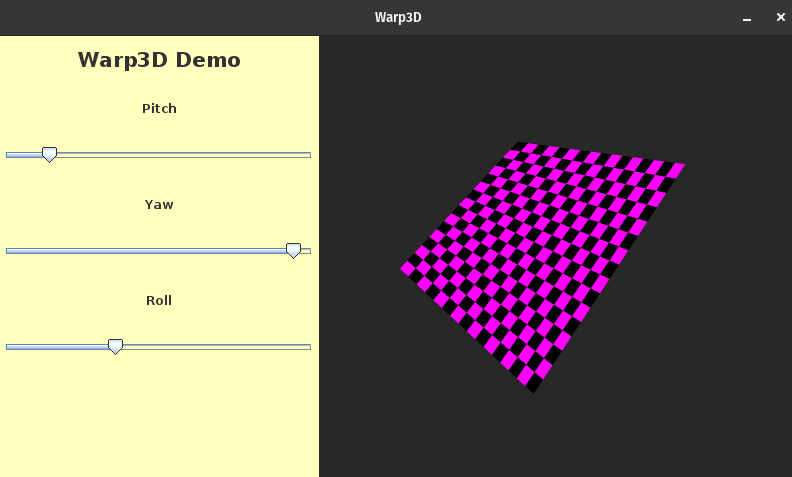
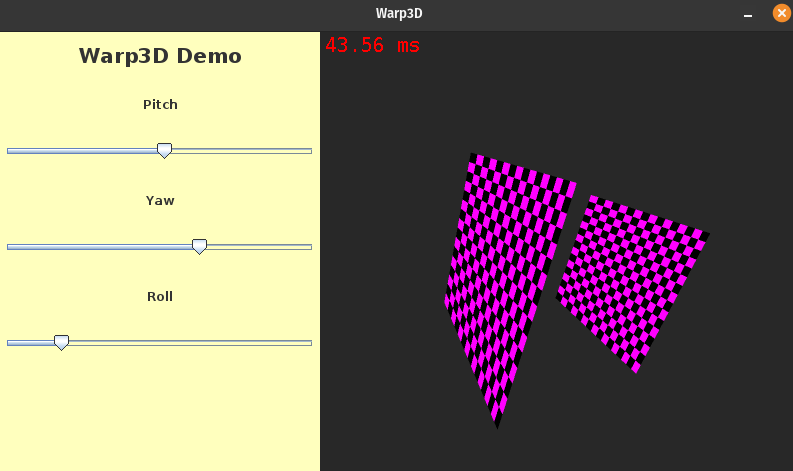
Add mode 4 rendering

diff --git a/src/test/kotlin/Main.kt b/src/test/kotlin/Main.kt
@@ -25,11 +25,13 @@ import java.awt.geom.AffineTransform
 import java.awt.image.AffineTransformOp
 import java.awt.image.BufferedImage
 import java.awt.image.BufferedImageOp
+import java.text.DecimalFormat
 import javax.swing.JFrame
 import javax.swing.JLabel
 import javax.swing.JPanel
 import javax.swing.JSlider
 import javax.swing.SwingConstants
+import kotlin.math.pow
 
 class RenderPanel(pitch: JSlider, yaw: JSlider, roll: JSlider): JPanel() {
 
@@ -37,16 +39,29 @@ class RenderPanel(pitch: JSlider, yaw: JSlider, roll: JSlider): JPanel() {
     private var rotation: Quaternion = Quaternion.IDENTITY
     private var position: Vector3D = Vector3D(0.0, 0.0, 3.0)
     private var camera: Camera = Camera(960)
-    private var quad: Quad3D = Quad3D(
-        Vector3D(-1.0, -1.0, -1.0),
-        Vector3D(1.0, -1.0, -1.0),
-        Vector3D(-1.0, 1.0, -1.0),
-        Vector3D(1.0, 1.0, -1.0),
-        color = Color.WHITE,
-        texture = createTexture()
-    )
+    private var quads: Array<Quad3D>
+    private var numToRender = 2
+    private var decimalFormat = DecimalFormat("0.##")
 
     init {
+        val tex = createTexture()
+        quads = arrayOf(
+            Quad3D(
+                Vector3D(-1.0, -1.0, -1.0),
+                Vector3D(1.0, -1.0, -1.0),
+                Vector3D(-1.0, 1.0, -1.0),
+                Vector3D(1.0, 1.0, -1.0),
+                texture = tex
+            ),
+            Quad3D(
+                Vector3D(1.0, -1.0, 1.0),
+                Vector3D(-1.0, -1.0, 1.0),
+                Vector3D(1.0, 1.0, 1.0),
+                Vector3D(-1.0, 1.0, 1.0),
+                texture = tex
+            )
+        )
+
         pitch.addChangeListener { updateRotation(pitch, yaw, roll) }
         yaw.addChangeListener { updateRotation(pitch, yaw, roll) }
         roll.addChangeListener { updateRotation(pitch, yaw, roll) }
@@ -79,11 +94,32 @@ class RenderPanel(pitch: JSlider, yaw: JSlider, roll: JSlider): JPanel() {
         g2.background = Color(40, 40, 40)
         g2.clearRect(0, 0, 960, 960)
         g2.dispose()
-        Warp3D.renderQuad(image, quad, camera, position, rotation)
+        val dict = HashMap<Quad3D, Double>()
+        for (quad in quads) {
+            val q = quad.rotate(rotation).translate(position)
+            val sum = q.topLeft.add(q.topRight).add(q.bottomLeft).add(q.bottomRight)
+            dict[q] = (sum.x / 4.0).pow(2.0) + (sum.y / 4.0).pow(2.0) + (sum.z / 4.0).pow(2.0)
+        }
+        val list = dict.keys.sortedByDescending { dict[it] }
+        val startTime = System.nanoTime()
+        var i = -1
+        for (q in list) {
+            i++
+            if (i >= numToRender) return
+            q.project(camera)?.render(image);
+        }
+        val elapsed = System.nanoTime() - startTime
+        val elapsedMillis = elapsed / 1.0e6
         if (g is Graphics2D) {
             g.drawImage(image, AffineTransformOp(AffineTransform.getScaleInstance(0.5, 0.5), AffineTransformOp.TYPE_BILINEAR), 0, 0)
         } else {
             g?.drawImage(image, 0, 0, 480, 480, this)
+        }
+        val formatted = decimalFormat.format(elapsedMillis)
+        g?.let {
+            it.font = Font(Font.MONOSPACED, Font.PLAIN, 20)
+            it.color = Color.RED
+            it.drawString("$formatted ms", 5, 20)
         }
     }
 

diff --git a/src/main/kotlin/codes/wasabi/warp3d/util/UVSampler.kt b/src/main/kotlin/codes/wasabi/warp3d/util/UVSampler.kt
@@ -56,7 +56,22 @@ class UVSampler(topLeft: Vector2D, topRight: Vector2D, bottomLeft: Vector2D, bot
         t = bottomRight.x + xAdd
         h = bottomRight.y + yAdd
 
-        type = makeFlag(horizontal, 1) or makeFlag(vertical, 0)
+        var t = makeFlag(horizontal, 1) or makeFlag(vertical, 0)
+        if (t == 0) {
+            // check angles for special case
+            val dotA = topRight.subtract(topLeft).dot(bottomLeft.subtract(topLeft))
+            if (abs(dotA) < MathUtil.EPSILON) {
+                val dotB = topLeft.subtract(topRight).dot(bottomRight.subtract(topRight))
+                if (abs(dotB) < MathUtil.EPSILON) {
+                    t = 4
+                }
+            }
+        }
+        type = t
+    }
+
+    fun getType(): Int {
+        return type
     }
 
     private fun makeFlag(value: Boolean, place: Int): Int {
@@ -103,7 +118,7 @@ class UVSampler(topLeft: Vector2D, topRight: Vector2D, bottomLeft: Vector2D, bot
         val bx = u + (t - u) * sampleU
 
         val diffX = bx - tx
-        if (diffX == 0.0) {
+        if (abs(diffX) < MathUtil.ZERO_TOLERANCE) {
             val ty = l + (k - l) * sampleU
             val by = j + (h - j) * sampleU
             return (b - ty) / (by - ty)
@@ -133,6 +148,24 @@ class UVSampler(topLeft: Vector2D, topRight: Vector2D, bottomLeft: Vector2D, bot
             } else {
                 sampleV(samplePos, u)
             }
+            if (v !in 0.0..1.0) return false
+            out[0] = u
+            out[1] = v
+            return true
+        } else if (type == 4) {
+            // Quad is a rectangle, but no edges are aligned with any axes
+            val mt = (k - l) / (o - p)
+            val ms = -1.0 / mt
+            val bt = samplePos.y - (mt * samplePos.x)
+            val bs1 = l - (ms * p)
+            val bs2 = k - (ms * o)
+            val dm = mt - ms
+            val min = (bs1 - bt) / dm
+            val max = (bs2 - bt) / dm
+            val u = (samplePos.x - min) / (max - min)
+
+            if (u !in 0.0..1.0) return false
+            val v = sampleV(samplePos, u)
             if (v !in 0.0..1.0) return false
             out[0] = u
             out[1] = v

diff --git a/src/main/kotlin/codes/wasabi/warp3d/Warp3D.kt b/src/main/kotlin/codes/wasabi/warp3d/Warp3D.kt
@@ -28,12 +28,12 @@ class Warp3D {
 
     companion object {
 
-        fun renderQuad(canvas: BufferedImage, quad: Quad2D, position: Vector2D = Vector2D(0.0, 0.0), rotation: Double = 0.0) {
-            quad.rotate(rotation).translate(position).render(canvas)
+        fun renderQuad(canvas: BufferedImage, quad: Quad2D, position: Vector2D = Vector2D(0.0, 0.0), rotation: Double = 0.0): Int {
+            return quad.rotate(rotation).translate(position).render(canvas)
         }
 
-        fun renderQuad(canvas: BufferedImage, quad: Quad3D, camera: Camera? = null, position: Vector3D = Vector3D(0.0, 0.0, 0.0), rotation: Quaternion = Quaternion.IDENTITY) {
-            quad.rotate(rotation).translate(position).project(camera ?: Camera(canvas.width, canvas.height))?.render(canvas)
+        fun renderQuad(canvas: BufferedImage, quad: Quad3D, camera: Camera? = null, position: Vector3D = Vector3D(0.0, 0.0, 0.0), rotation: Quaternion = Quaternion.IDENTITY): Int {
+            return (quad.rotate(rotation).translate(position).project(camera ?: Camera(canvas.width, canvas.height))?.render(canvas)) ?: -1
         }
 
     }

diff --git a/src/main/kotlin/codes/wasabi/warp3d/render/Quad2D.kt b/src/main/kotlin/codes/wasabi/warp3d/render/Quad2D.kt
@@ -72,7 +72,7 @@ data class Quad2D(
         )
     }
 
-    fun render(canvas: BufferedImage) {
+    fun render(canvas: BufferedImage): Int {
         if (texture == null) {
             val g2d = canvas.createGraphics()
             g2d.color = this.color
@@ -88,6 +88,7 @@ data class Quad2D(
                 bottomLeft.y.toInt()
             ), 4)
             g2d.dispose()
+            return 4
         } else {
             val pcRed = this.color.red / 255.0
             val pcGreen = this.color.green / 255.0
@@ -115,6 +116,7 @@ data class Quad2D(
                     canvas.setRGB(x, y, (0xFF shl 24) or ((red and 0xFF) shl 16) or ((green and 0xFF) shl 8) or ((blue and 0xFF) shl 0))
                 }
             }
+            return sampler.getType()
         }
     }
 

diff --git a/src/main/kotlin/codes/wasabi/warp3d/math/Vector2D.kt b/src/main/kotlin/codes/wasabi/warp3d/math/Vector2D.kt
@@ -34,6 +34,10 @@ data class Vector2D(var x: Double, var y: Double) {
         return Vector2D(x + other.x, y + other.y)
     }
 
+    fun subtract(other: Vector2D): Vector2D {
+        return Vector2D(x - other.x, y - other.y)
+    }
+
     fun rotate(radians: Double): Vector2D {
         if (abs(radians) < MathUtil.ZERO_TOLERANCE) return copy()
         val cosAng = cos(radians)
@@ -42,6 +46,10 @@ data class Vector2D(var x: Double, var y: Double) {
             x * cosAng - y * sinAng,
             x * sinAng + y * cosAng
         )
+    }
+
+    fun dot(other: Vector2D): Double {
+        return (x * other.x) + (y * other.y)
     }
 
 }

diff --git a/src/main/kotlin/codes/wasabi/warp3d/math/MathUtil.kt b/src/main/kotlin/codes/wasabi/warp3d/math/MathUtil.kt
@@ -23,12 +23,12 @@ class MathUtil {
 
     companion object {
 
-        const val EPSILON: Double = 1E-12
-        const val ZERO_TOLERANCE: Double = 1E-16
+        const val EPSILON: Double = 1E-6
+        const val ZERO_TOLERANCE: Double = 1E-12
         const val DEG_TO_RAD: Double = PI / 180.0
 
         fun fuzzyEquals(a: Double, b: Double): Boolean {
-            return abs(a - b) <= ZERO_TOLERANCE
+            return abs(a - b) <= EPSILON
         }
 
     }
